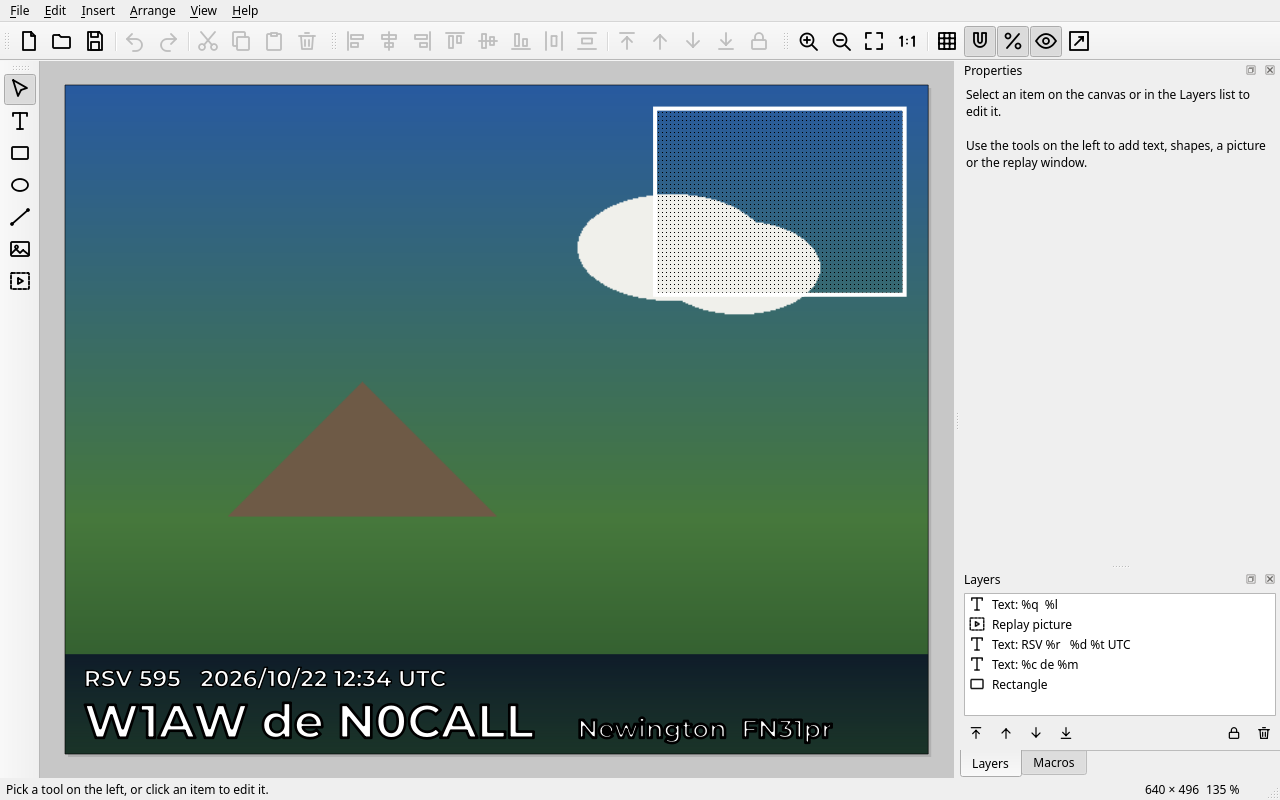
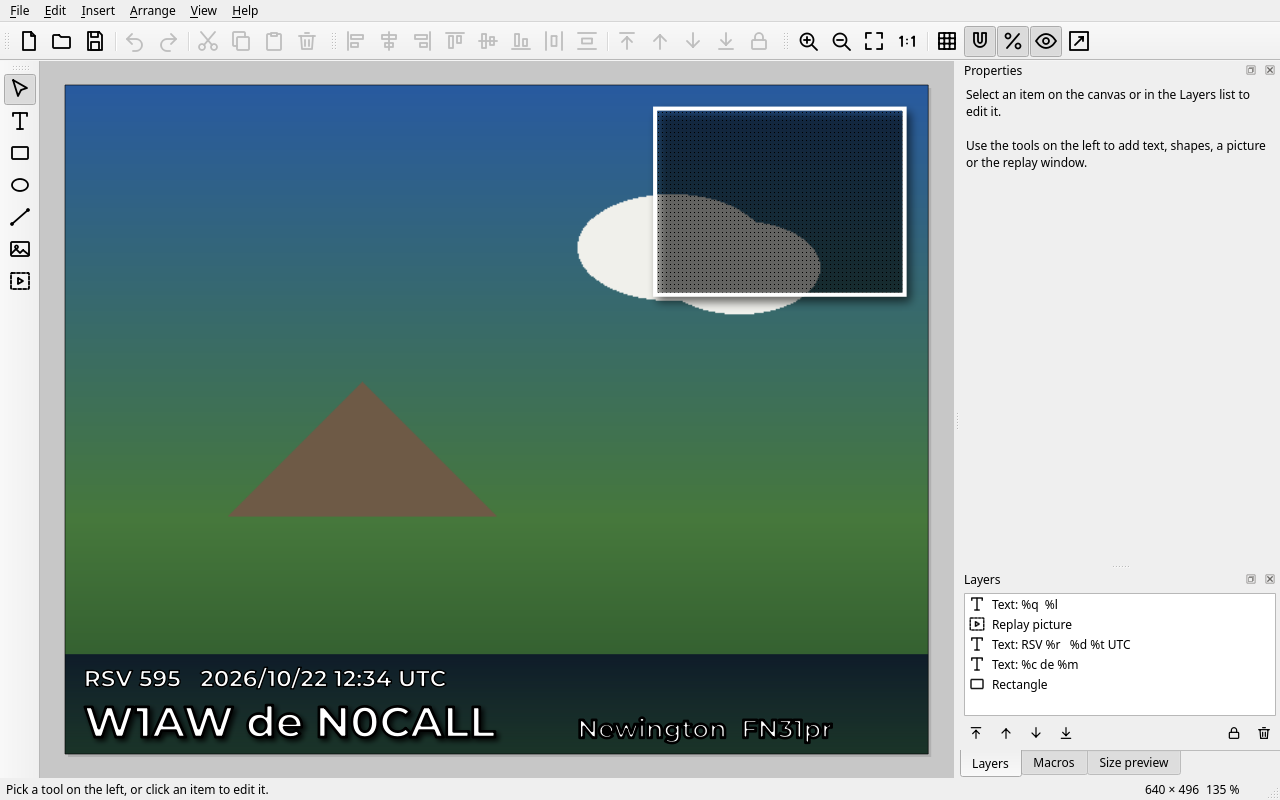
User's Guide: layouts that keep proportions, text boxes, shadows, starters, size preview
template-editor.html: the canvas section now explains Keep proportions versus
Stretch; new sections on anchors and the size preview, text in a box, and starter
templates, colour bars and guides; group resize and rotate, snapping while
resizing, shadow, corner radius and the gradient angles are described; the
Properties pane order includes Shadow and Anchor. Screenshots regenerated with
tests/editor/shot.cpp, plus a new one of the size preview.
introduction.html and README.md: feature lines.

Changed region(s): [[0.5, 0.125, 0.7188, 0.4062], [0.0625, 0.875, 0.4375, 0.9375], [0.8438, 0.9375, 0.9062, 0.9688]]

diff --git a/documentation/userguide/pages/template-editor.html b/documentation/userguide/pages/template-editor.html
@@ -27,18 +27,34 @@ templates in the template editor, and the Transmit tab and the Gallery use them.
 Press <kbd>F1</kbd> in the editor to open this page.</p>
 
 <h2 id="canvas">The canvas</h2>
-<p>The canvas is the picture area of one SSTV mode. When a picture is transmitted the whole template is <strong>stretched over the whole picture</strong>, so
-make the template at the size of the mode you send most (for example 640 x 496 for PD120, 320 x 256 for Martin 1). A new template starts with the size of the
-mode currently selected on the Transmit tab; <span class="ui">Arrange &gt; Canvas Size...</span> changes it later, and can scale the items along. If you transmit
-modes of another shape the template is stretched with them.</p>
+<p>The canvas is the picture area of one SSTV mode. Make the template at the size of the mode you send most (for example 640 x 496 for PD120, 320 x 256 for Martin 1).
+A new template starts with the size of the mode currently selected on the Transmit tab; <span class="ui">Arrange &gt; Canvas Size...</span> changes it later, and can scale the items along.</p>
+<p>When you send on a mode with another shape (Robot 36 is 4:3, Martin 1 is 5:4) the template has to be fitted to the picture. You choose how under
+<span class="ui">Arrange &gt; Canvas Size...</span>, <em>When the picture has another shape</em>:</p>
+<ul>
+<li><strong>Keep the proportions</strong> (the choice for new templates): the template is scaled by one factor to fit, so text and circles keep their shape. The room that is left over is
+ shared out by the <a href="#anchors">anchors</a> of the items: a call sign stays in its corner, a colour bar stretches across the full width.</li>
+<li><strong>Stretch the template to the picture</strong>: the whole template is stretched, as in older versions. Text looks squashed or stretched when the shape differs.</li>
+</ul>
+<p>Templates from earlier versions open as <em>stretched</em>, and the editor shows a blue bar offering <span class="ui">Keep proportions</span>: every item is then anchored to the nearest edge
+or corner, and you can adjust that afterwards.</p>
 <p>The grey checkerboard stands for the picture. To see how a template looks on a real picture switch on <span class="ui">View &gt; Show Picture Under Template</span>: the
 picture of the Transmit tab is shown behind the template. It is only a guide and is never saved.</p>
 <figure><img src="../images/template-editor-preview.png" alt="The template editor showing a landscape picture under the template, with macros replaced by sample values" loading="lazy"><figcaption>The picture under the template and the macros replaced by sample values (View &gt; Preview Macros). The hatched square is the replay window.</figcaption></figure>
 
+<h2 id="anchors">Anchors and the size preview</h2>
+<p>In a template that keeps its proportions every item has an <strong>anchor</strong>, set in the <span class="ui">Anchor</span> section of the Properties panel (it appears only for such templates). Horizontally an item can be
+anchored to the <em>left</em>, the <em>centre</em> or the <em>right</em>, vertically to the <em>top</em>, the <em>middle</em> or the <em>bottom</em>. When the picture is wider or taller than the canvas the item keeps its (scaled) distance to that
+edge. <em>Left and right</em> (or <em>Top and bottom</em>) keeps both distances, so the item grows with the picture: use it for a bar across the full width. <em>Scale with picture</em> grows the position and size in proportion, like the old
+stretch. New items get the anchors their place suggests (a bar dragged along the bottom spans the width and sticks to the bottom). Text without a box, and turned items, are moved but never stretched.</p>
+<p>The <strong>Size preview</strong> panel (a tab next to Layers and Macros, also under <span class="ui">View</span>) shows the template laid over a picture of any mode size, drawn by the same code that
+puts it on the transmitted picture. Choose a mode in its list to see how the template lands there. For a stretched template it tells you when the picture's shape makes the text look squashed, and offers <span class="ui">Keep proportions</span>.</p>
+<figure><img src="../images/template-editor-sizes.png" alt="The template editor with the Size preview panel showing the 640 x 496 template on a 320 x 240 Robot 36 picture" loading="lazy"><figcaption>A 640 x 496 template and, in the Size preview panel, how it lands on a Robot 36 picture (320 x 240): the bar still spans the width and the replay window keeps its corner.</figcaption></figure>
+
 <h2 id="tools">Tools and items</h2>
 <table class="compact"><tr><th>Tool</th><th>Key</th><th>What it adds</th></tr>
 <tr><td>Select</td><td><kbd>V</kbd></td><td>Nothing: click items to select them, drag to move them, drag empty space to select several.</td></tr>
-<tr><td>Text</td><td><kbd>T</kbd></td><td>A text. Click where it should go, type, then press <kbd>Ctrl</kbd>+<kbd>Enter</kbd> or click outside.</td></tr>
+<tr><td>Text</td><td><kbd>T</kbd></td><td>A text. Click where it should go, type, then press <kbd>Ctrl</kbd>+<kbd>Enter</kbd> or click outside. Dragging out a rectangle instead makes a <a href="#textbox">text box</a>.</td></tr>
 <tr><td>Rectangle</td><td><kbd>R</kbd></td><td>A rectangle: drag on the canvas. A plain click adds one of a default size.</td></tr>
 <tr><td>Ellipse</td><td><kbd>E</kbd></td><td>An ellipse or circle.</td></tr>
 <tr><td>Line</td><td><kbd>L</kbd></td><td>A straight line. Its thickness is the outline width in the Properties panel.</td></tr>
@@ -56,8 +72,9 @@ picture of the Transmit tab is shown behind the template. It is only a guide and
 <dt>Move</dt><dd>Drag an item, or use the arrow keys (1 pixel; with <kbd>Shift</kbd> 10 pixels). Dragging snaps to the edges and middle of the canvas and of other items
  (pink guide lines); hold <kbd>Alt</kbd> to switch snapping off for a moment, <kbd>Shift</kbd> to move in a straight line.</dd>
 <dt>Resize</dt><dd>Drag a square handle. For a picture a corner keeps its proportions (hold <kbd>Shift</kbd> to change them), for other items hold <kbd>Shift</kbd> to keep them.
- A corner of a <em>text</em> makes its letters bigger or smaller.</dd>
+ A corner of a <em>text</em> makes its letters bigger or smaller; the handles of a <a href="#textbox">text box</a> change the box. The edge you drag snaps to the edges and middle of the canvas, of other items and to the grid, like moving does (hold <kbd>Alt</kbd> for no snapping).</dd>
 <dt>Rotate</dt><dd>Drag the round handle above the item (hold <kbd>Shift</kbd> for steps of 15 degrees), or type the angle in the Properties panel, where you also find skew and opacity.</dd>
+<dt>Several items</dt><dd>With two or more items selected, a frame with handles appears around them. Drag a handle to resize them together (the arrangement keeps its shape, text gets bigger or smaller with it; <kbd>Shift</kbd> keeps the proportions of the frame) or the round handle to turn them together about the middle of the group. Locked items stay as they are.</dd>
 <dt>Edit a text</dt><dd>Double-click it, or select it and press <kbd>Enter</kbd> or <kbd>F2</kbd>. <kbd>Ctrl</kbd>+<kbd>Enter</kbd> or a click outside is done, <kbd>Esc</kbd> cancels.
  The Properties panel has a text box too.</dd>
 <dt>Duplicate, copy, paste</dt><dd><kbd>Ctrl</kbd>+<kbd>D</kbd>, <kbd>Ctrl</kbd>+<kbd>C</kbd>, <kbd>Ctrl</kbd>+<kbd>X</kbd> and <kbd>Ctrl</kbd>+<kbd>V</kbd>. Items copy between two editor windows or programs;
@@ -71,15 +88,34 @@ picture of the Transmit tab is shown behind the template. It is only a guide and
 </dl>
 
 <h2 id="look">Colours, gradients, outlines and fonts</h2>
-<p>The Properties panel changes every selected item at once. Its sections run from what the item is to where it sits: the text or picture first, then fill, outline, opacity and lock,
- and last position, size and rotation, which you mostly set by dragging on the canvas.</p>
+<p>The Properties panel changes every selected item at once. Its sections run from what the item is to where it sits: the text or picture first, then fill, outline, shadow, opacity and lock, the anchor
+ (for templates that keep their proportions), and last position, size and rotation, which you mostly set by dragging on the canvas.</p>
 <figure><img src="../images/template-editor-gradient.png" alt="The template editor with a rectangle selected; the Fill section shows a linear gradient with two colour stops" loading="lazy"><figcaption>A rectangle with a linear gradient fill from transparent to dark. Click the bar to add a colour stop, drag a stop to move it, double-click it to change its colour.</figcaption></figure>
 <dl>
-<dt>Fill</dt><dd>A solid colour (with transparency) or a linear, radial or conical gradient for text, rectangles and ellipses.</dd>
+<dt>Fill</dt><dd>A solid colour (with transparency) or a linear, radial or conical gradient for text, rectangles and ellipses. For a linear gradient the direction is the angle: 0° runs from left to right, 90° from bottom to top, 270° from top to bottom.</dd>
 <dt>Outline</dt><dd>Colour, width and style of the edge. For a line this <em>is</em> the line; for pictures and the replay window it is the border. White text with a black outline stays readable on any picture.</dd>
 <dt>Font</dt><dd>Family, size in points, weight, italic, underline and letter spacing. A template remembers the font by name. If a computer does not have the font the text is drawn
  in another font; the Properties panel then shows a notice, and the template keeps the name.</dd>
+<dt>Corner radius</dt><dd>Rounds the corners of a rectangle (in the Fill section).</dd>
+<dt>Shadow</dt><dd>Any item can have a drop shadow: it is drawn once more behind the item, shifted right and down by the X and Y values, in the shadow colour (a transparent colour gives a lighter shadow). <em>Blur</em> softens its edge.
+ The shadow keeps its direction when the item is turned.</dd>
 </dl>
+
+<h2 id="textbox">Text in a box</h2>
+<p>Ordinary text is as wide as its letters make it, so a long call sign or place name can run off the picture. Tick <span class="ui">Fit in a box</span> in the Text section (or drag out a rectangle with the Text tool) and the text is laid out
+inside a box you resize with the handles:</p>
+<ul>
+<li><strong>Align</strong> and <strong>Vertical</strong> place the text in the box: left, centre or right; top, middle or bottom.</li>
+<li><strong>Wrap lines</strong> starts a new line where a word no longer fits the width of the box (a word that is wider than the box is broken between letters).</li>
+<li><strong>Shrink to fit</strong> makes the letters smaller, never larger, until everything fits the box. Macros are replaced before this, so <code>%c</code> fits whether the call is <code>W1AW</code> or <code>9A1ABC/P</code>.</li>
+</ul>
+<p>Untick the box for plain text again.</p>
+
+<h2 id="starters">Starting points: starter templates and colour bars</h2>
+<p><span class="ui">File &gt; New</span> asks for the size, the layout and, under <em>Start from</em>, a ready-made arrangement: <em>Blank</em>, a <em>Call sign bar</em> along the bottom, a <em>Call sign in the corner</em>, or a
+<em>Replay window and call sign bar</em>. Everything in them is an ordinary item you can change. <span class="ui">Insert &gt; Colour Bar</span> adds a full-width bar with a gradient, at the bottom or the top of the picture, in one of six
+colour styles (dark fade, blue, red, green, gold, rainbow); it goes behind the other items.</p>
+<p>For placing things, <span class="ui">View &gt; Guides</span> shows dashed lines through the middle of the canvas and frames 5 % and 10 % in from the edges. They are only a help on the canvas and are never part of the picture.</p>
 
 <h2 id="macros">Macros</h2>
 <p>A text may contain macros that are replaced when the picture is transmitted. The <strong>Macros</strong> tab next to the Layers panel lists them; double-click one to put it into the

diff --git a/documentation/userguide/pages/introduction.html b/documentation/userguide/pages/introduction.html
@@ -22,7 +22,7 @@ pictures and digital SSTV (HAMDRM, also called DSSTV or DRM) pictures through yo
 <li>Receives and transmits HAMDRM digital SSTV, which carries a compressed picture with error correction. See
  <a href="drm.html">Digital SSTV (DRM)</a>.</li>
 <li>Keeps received and transmitted pictures in a <a href="gallery.html">gallery</a> with a viewer.</li>
-<li>Has a template editor (text with macros, shapes, gradients, pictures, a replay window, undo) for the overlay on every picture you send, hands pictures to your own picture editor, and keeps stock and template libraries.</li>
+<li>Has a template editor (text with macros, text boxes that shrink to fit, shapes, gradients, shadows, pictures, a replay window, starter templates, undo) for the overlay on every picture you send, with layouts that keep their proportions on every SSTV mode, hands pictures to your own picture editor, and keeps stock and template libraries.</li>
 <li>Controls your rig through Hamlib CAT, a serial RTS/DTR line, or VOX, and can be remote-controlled over XML-RPC.</li>
 <li>Sends CW and waterfall identification, and shows a spectrum and waterfall display.</li>
 <li>Decodes SSTV from recorded audio files, from the window or from the command line. See

diff --git a/README.md b/README.md
@@ -43,7 +43,7 @@ Sam Saccone. This program is based in part on QSSTV and, like it, is released un
 - **WebP, AVIF and HEIC** - image formats, with EXIF/HEIF orientation applied on import
 - **Image viewer zoom and pan:** - smooth mouse-wheel zoom and drag-to-pan
 - **Clipboard support:** - copy images from anywhere, paste into the transmit window or TX stock
-- **New template editor** - rebuilt from scratch for the overlay on transmitted pictures: undo/redo, zoom, snapping, gradients, layers, a macro palette and a picture-under-template guide. Templates are saved in a new, safe `.qtempl` format; old `.templ` files still open. Pictures are edited in your own picture editor (a copy, the original is never touched)
+- **New template editor** - rebuilt from scratch for the overlay on transmitted pictures: undo/redo, zoom, snapping, gradients, shadows, text boxes that wrap and shrink to fit, group resize and rotate, layers, a macro palette, starter templates and colour bars, and a size preview of the template on every SSTV mode. Templates keep their proportions on modes of another shape (items are anchored to the edges) instead of being stretched. Templates are saved in a new, safe `.qtempl` format; old `.templ` files still open. Pictures are edited in your own picture editor (a copy, the original is never touched)
 - **ADIF logbook broadcast over UDP** - on every OS
 - **DRM Live size-slider preview:** - the picture preview updates as the slider is dragged
 - **DRM Progressive Image Reception** - Image previews as you receive, improving in quality over time
